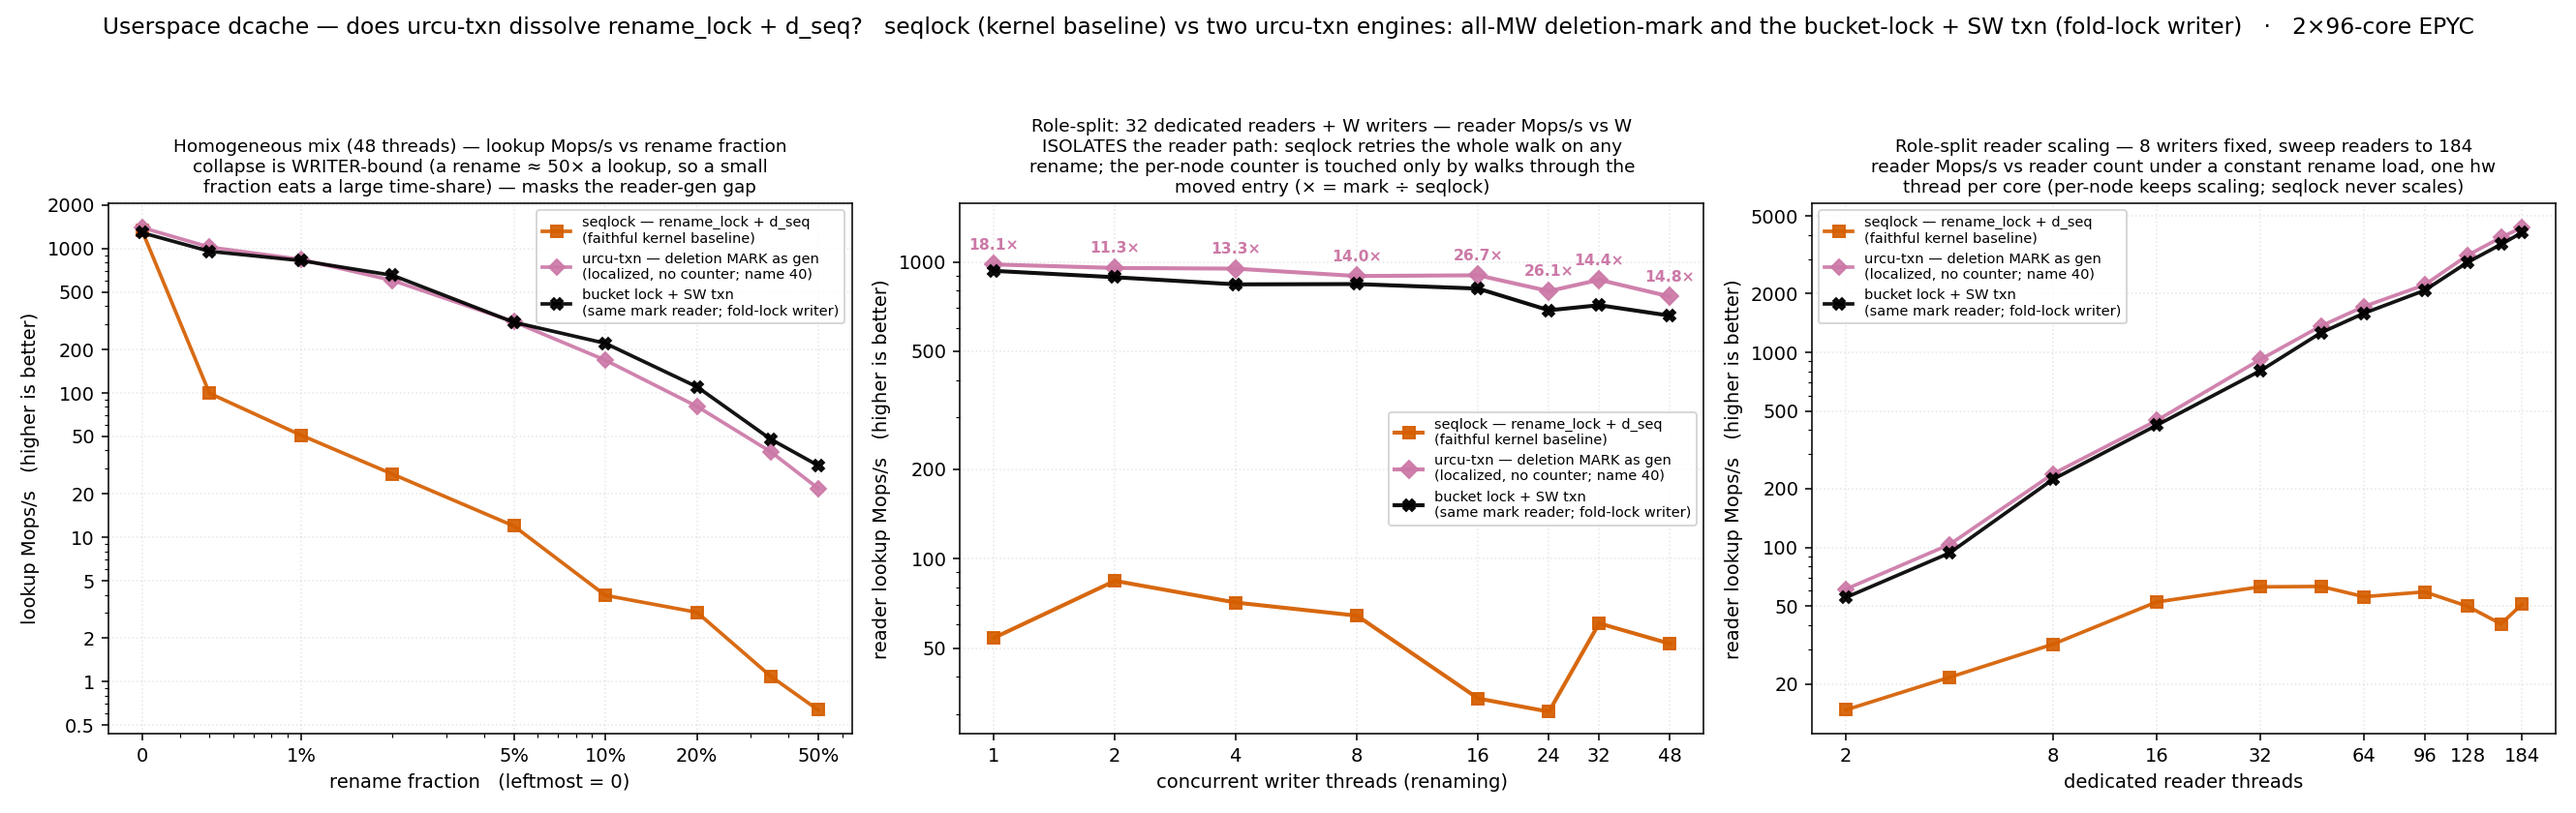
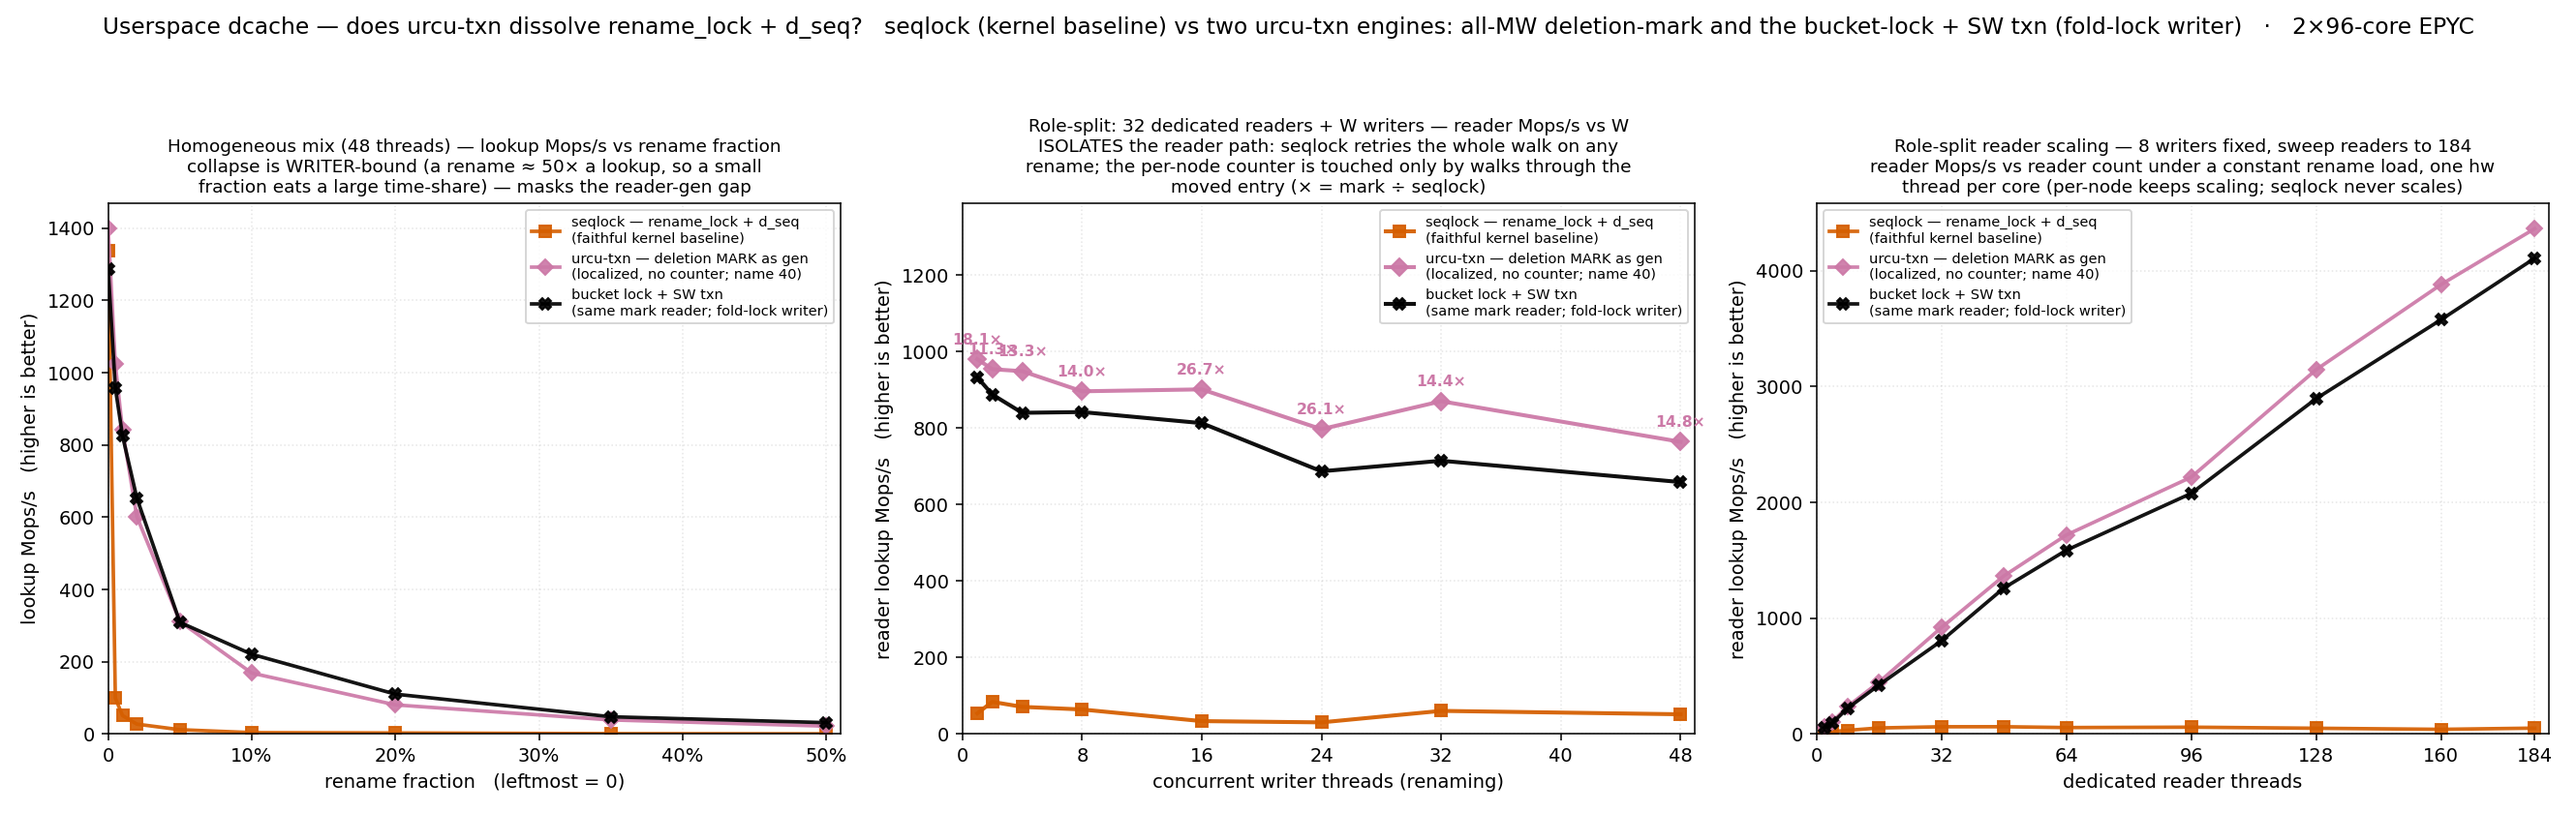
dcache figures: linear x/y axes on the S3 and churn plots
The S3 (plot_dcache.py) and churn (plot_dcache_churn.py) plots were the only two
still on log-log axes -- the move-height, op-type, and churn-scaling plots were
already linear.  Convert their reader/writer x axes and the throughput y axis to
linear so all five dentry figures share one scale.  Even integer ticks replace
the log2/log locators; the low-throughput baselines (seqlock) now read as the
near-floor lines they are, and the localized/bucket-lock scaling shows as the
straight-ish linear ramps it is.

diff --git a/scripts/plot_dcache.py b/scripts/plot_dcache.py
@@ -25,25 +25,22 @@ _num = FuncFormatter(lambda v, pos: f"{v:g}")
 
 
 def plain_y(ax):
-    """log-SPACED y (the data spans decades) but PLAIN-NUMBER labels: 1, 10, 100
-    (with 2/5 subdivisions), never 10^n."""
-    ax.set_yscale("log")
-    ax.yaxis.set_major_locator(LogLocator(base=10, subs=(1, 2, 5)))
+    """linear y from 0, plain-number labels (never 10^n)."""
+    ax.set_ylim(bottom=0)
     ax.yaxis.set_major_formatter(_num)
-    ax.yaxis.set_minor_formatter(NullFormatter())
 
 
 def plain_thread_x(ax, ticks):
-    """log2-spaced thread-count x with plain integer labels at the sampled points."""
-    ax.set_xscale("log", base=2)
+    """linear thread-count x with plain integer labels at the given ticks."""
+    ax.set_xlim(0, max(ticks) * 1.02)
     ax.xaxis.set_major_locator(FixedLocator(ticks))
     ax.xaxis.set_major_formatter(FixedFormatter([str(t) for t in ticks]))
     ax.xaxis.set_minor_formatter(NullFormatter())
 
 
 def percent_x(ax, fracs, labels):
-    """log-spaced rename-fraction x, labelled as percentages (0, 1%, 5%, ...)."""
-    ax.set_xscale("log")
+    """linear rename-fraction x, labelled as percentages."""
+    ax.set_xlim(0, max(fracs) * 1.02)
     ax.xaxis.set_major_locator(FixedLocator(fracs))
     ax.xaxis.set_major_formatter(FixedFormatter(labels))
     ax.xaxis.set_minor_formatter(NullFormatter())
@@ -96,12 +93,11 @@ for e in ENGINES:
     xs, ys = series("frac", e, "rename_frac", "mlookups_s")
     if not xs:
         continue
-    xs = [max(x, 0.003) for x in xs]           # 0 -> just inside the log axis
     ax1.plot(xs, ys, color=COLOR[e], marker=MARKER[e], lw=1.9, ms=6,
              label=LABEL[e], alpha=0.92)
 if ax1.has_data():
-    percent_x(ax1, [0.003, 0.01, 0.05, 0.1, 0.2, 0.5],
-              ["0", "1%", "5%", "10%", "20%", "50%"])
+    percent_x(ax1, [0, 0.1, 0.2, 0.3, 0.4, 0.5],
+              ["0", "10%", "20%", "30%", "40%", "50%"])
     plain_y(ax1)
 ax1.set_title("Homogeneous mix (48 threads) — lookup Mops/s vs rename fraction\n"
               "collapse is WRITER-bound (a rename ≈ 50× a lookup, so a small\n"
@@ -133,7 +129,7 @@ for w in sorted(base.get(ANNOT, {})):
                          ha="center", fontsize=8, color=COLOR[ANNOT],
                          fontweight="bold")
 if ax2.has_data():
-    plain_thread_x(ax2, [1, 2, 4, 8, 16, 24, 32, 48])
+    plain_thread_x(ax2, [0, 8, 16, 24, 32, 40, 48])
     plain_y(ax2)
     # headroom so the leftmost ratio label is not clipped by the axes top
     lo, hi = ax2.get_ylim()
@@ -154,7 +150,7 @@ for e in ENGINES:
     ax3.plot(xs, ys, color=COLOR[e], marker=MARKER[e], lw=1.9, ms=6,
              label=LABEL[e], alpha=0.92)
 if ax3.has_data():
-    plain_thread_x(ax3, [2, 8, 16, 32, 64, 96, 128, 184])
+    plain_thread_x(ax3, [0, 32, 64, 96, 128, 160, 184])
     plain_y(ax3)
 ax3.set_title("Role-split reader scaling — 8 writers fixed, sweep readers to 184\n"
               "reader Mops/s vs reader count under a constant rename load, one hw\n"

diff --git a/scripts/plot_dcache_churn.py b/scripts/plot_dcache_churn.py
@@ -48,14 +48,12 @@ _num = FuncFormatter(lambda v, _: ("%g" % v))
 
 
 def plain_y(ax):
-    ax.set_yscale("log")
-    ax.yaxis.set_major_locator(LogLocator(base=10, subs=(1, 2, 5)))
+    ax.set_ylim(bottom=0)
     ax.yaxis.set_major_formatter(_num)
-    ax.yaxis.set_minor_formatter(NullFormatter())
 
 
 def plain_thread_x(ax, ticks):
-    ax.set_xscale("log", base=2)
+    ax.set_xlim(0, max(ticks) * 1.02)
     ax.xaxis.set_major_locator(FixedLocator(ticks))
     ax.xaxis.set_major_formatter(FixedFormatter([str(t) for t in ticks]))
     ax.xaxis.set_minor_formatter(NullFormatter())
@@ -121,7 +119,7 @@ for e in ENGINES:
              label=LABEL[e], alpha=0.94)
 annotate_ratio(ax1, base, "seqlock", TXN_REF, 1.3, COLOR["seqlock"])
 if ax1.has_data():
-    plain_thread_x(ax1, [1, 2, 4, 8, 16, 32, 48])
+    plain_thread_x(ax1, [0, 8, 16, 24, 32, 40, 48])
     plain_y(ax1)
     lo, hi = ax1.get_ylim(); ax1.set_ylim(lo, hi * 1.35)
 ax1.set_title("Writers only — insert/remove Mops/s vs writer count\n"
@@ -146,7 +144,7 @@ for e in ENGINES:
              label=LABEL[e], alpha=0.94)
 annotate_ratio(ax2, base, TXN_REF, "seqlock", 1.3, COLOR[TXN_REF])
 if ax2.has_data():
-    plain_thread_x(ax2, [1, 2, 4, 8, 16, 32, 48])
+    plain_thread_x(ax2, [0, 8, 16, 24, 32, 40, 48])
     plain_y(ax2)
     lo, hi = ax2.get_ylim(); ax2.set_ylim(lo, hi * 1.35)
 ax2.set_title("32 dedicated readers + W churn writers — reader Mops/s vs W\n"
@@ -169,8 +167,7 @@ for e in ENGINES:
     ax3.plot(xs, ys, color=COLOR[e], marker=MARKER[e], lw=2.1, ms=6.5,
              label=LABEL[e], alpha=0.94)
 if ax3.has_data():
-    # thin the ticks: the sampled points crowd at the top end (128/160/184)
-    plain_thread_x(ax3, [2, 4, 8, 16, 32, 64, 128, 184])
+    plain_thread_x(ax3, [0, 32, 64, 96, 128, 160, 184])
     plain_y(ax3)
 ax3.set_title("Reader scaling under constant churn — 8 writers fixed\n"
               "reader Mops/s vs reader count, one hw thread per core.  Same\n"
